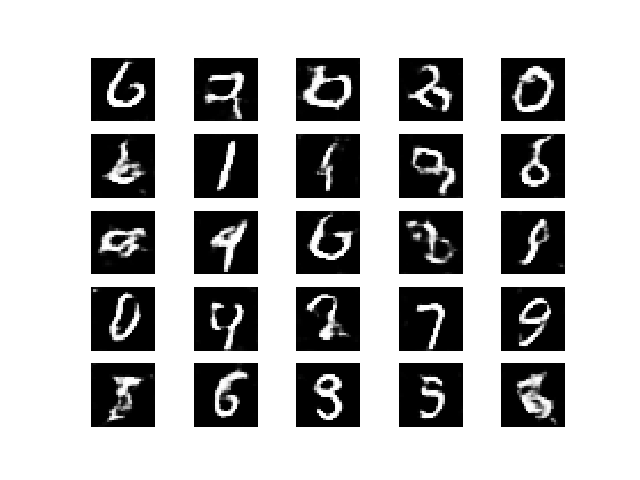
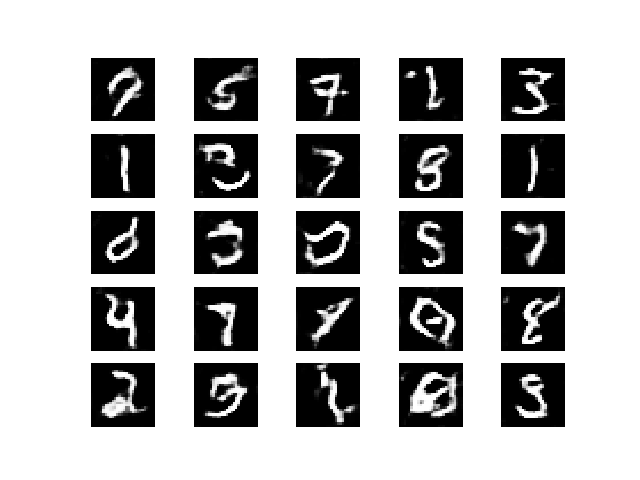
adjust epoch

diff --git a/DCGAN/DCGAN.py b/DCGAN/DCGAN.py
@@ -142,4 +142,4 @@ class DCGAN():
 
 if __name__ == '__main__':
     dcgan = DCGAN()
-    dcgan.train(epochs=4000, batch_size=32, save_interval=50)
+    dcgan.train(epochs=30000, batch_size=32, save_interval=200)
